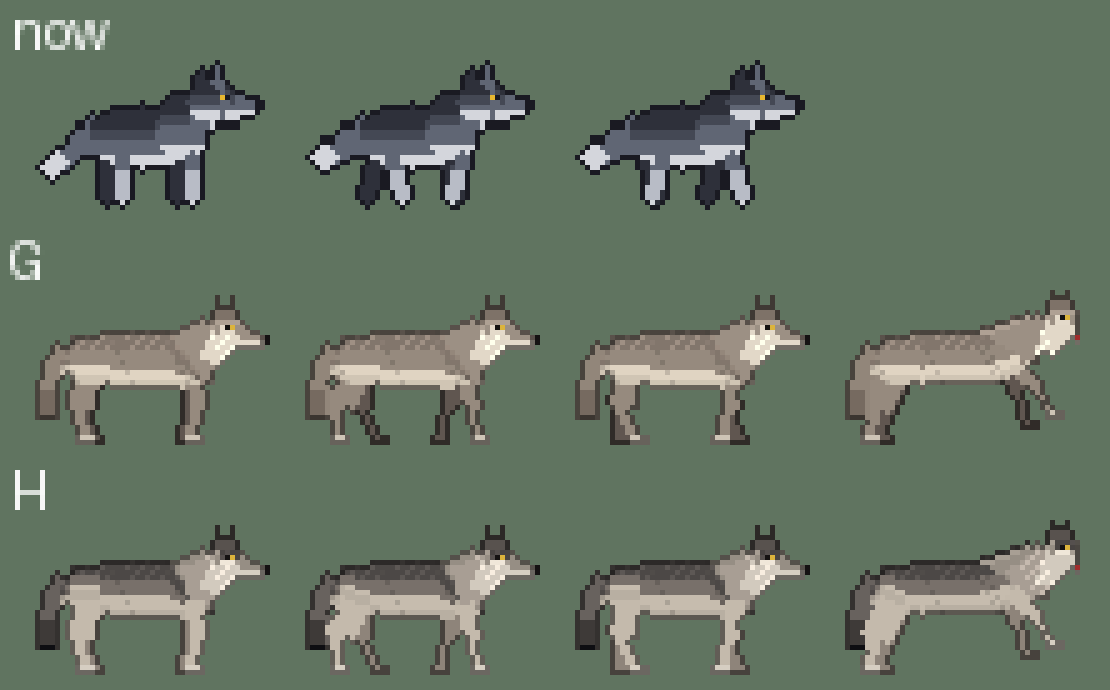
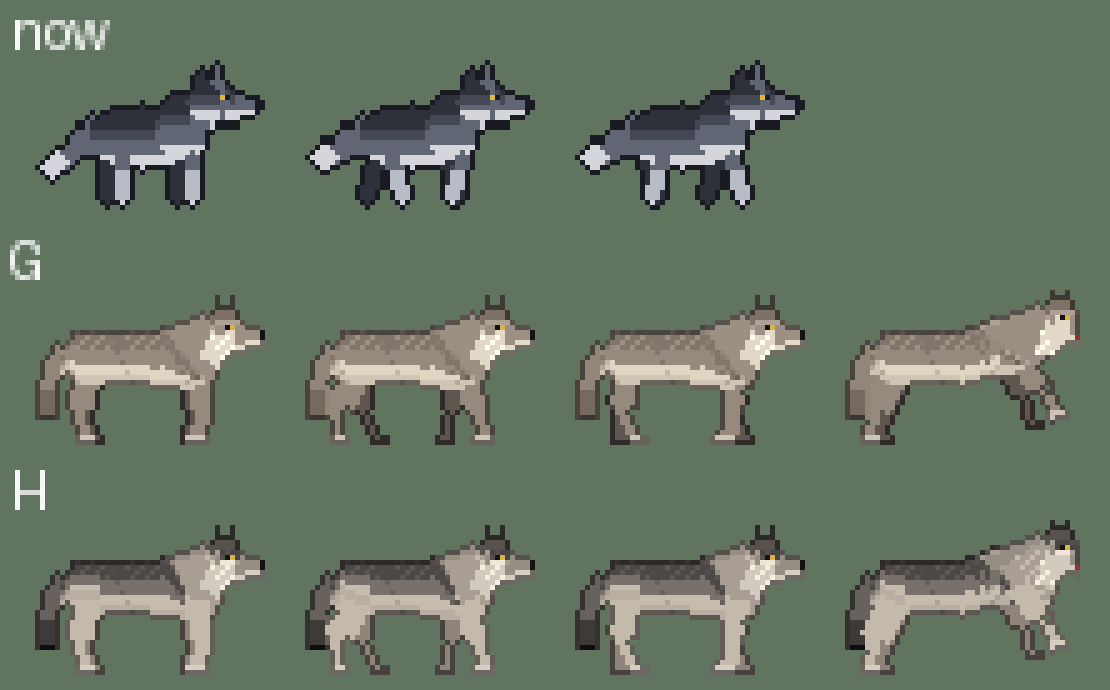
灰狼候選 G、H：口鼻改短改鈍、肩胸厚度約臀部 1.2 倍
Claude-Session: https://claude.ai/code/session_01HkqM82v9towmCBuEomSQC3

diff --git a/arts/art_wolf_v2_2026-10-13/gen_wolf_variants.py b/arts/art_wolf_v2_2026-10-13/gen_wolf_variants.py
@@ -14,13 +14,15 @@ ARCH = 'arts/art_wolf_v2_2026-10-13/'
 BASE = dict(
     # 照使用者最後選的兩張參考圖：頭和肩差不多高、往前看；身體結實不笨重、腿稍長、頸毛厚、尾巴蓬鬆下垂
     frame=(48, 32), ground=30, split=28, file='wolf',
-    body=[(7, 13), (9, 9), (15, 8), (26, 8), (31, 7), (35, 8), (38, 12), (37, 18), (31, 19), (17, 19), (10, 18), (7, 16)],
-    neck=[(29, 8), (35, 5), (39, 12), (36, 18)],
-    head=[(35, 7), (38, 5), (41, 5), (43, 6), (46, 8), (48, 9), (47, 11), (43, 11), (39, 12), (35, 10)],
-    jaw=[(43, 10), (47, 10), (46, 11), (43, 11)],
+    # 前段（肩胸）厚度約後段（臀部）的 1.2 倍：臀部 8→18、肩胸 6→19，腰往後收
+    body=[(7, 12), (9, 8), (15, 8), (24, 8), (30, 6), (35, 7), (38, 11), (38, 17), (33, 19), (25, 19), (17, 18), (10, 18), (7, 16)],
+    neck=[(28, 7), (35, 4), (40, 12), (37, 19)],
+    # 口鼻短而鈍：鼻端是方的
+    head=[(35, 7), (38, 5), (41, 5), (43, 6), (46, 7), (47, 8), (47, 11), (43, 12), (39, 12), (35, 10)],
+    jaw=[(43, 10), (46, 10), (46, 12), (43, 12)],
     ears=[[(37, 6), (38, 1), (40, 5)], [(39, 5), (41, 1), (42, 5)]],
-    eye=(41, 7), nose=(48, 9),
-    legs=[('far', (31, 16), 4, 3, 1), ('far', (13, 16), 5, 3, -1), ('near', (33, 16), 4, 3, 1), ('near', (11, 16), 6, 3, -1)],
+    eye=(41, 7), nose=(47, 8),
+    legs=[('far', (32, 16), 5, 3, 1), ('far', (13, 16), 5, 3, -1), ('near', (34, 16), 5, 4, 1), ('near', (11, 16), 6, 3, -1)],
     paw=2, tail=[(8, 11), (5, 15), (4, 20), (4, 25)], tail_w=5, tail_tip=3)
 
 
@@ -89,7 +91,7 @@ VARIANTS = {
 # H：偏參考圖 2（像素畫）：深色背部帶雜毛、淺色臉與頸毛、米白的腿、尾巴深灰
 CHEEK = [(37, 8), (41, 9), (42, 11), (38, 15), (35, 13)]
 BROW = [(39, 6), (42, 6), (42, 7), (39, 7)]
-RUFF = [(31, 9), (36, 7), (39, 12), (37, 17), (33, 16)]
+RUFF = [(30, 8), (36, 6), (40, 12), (38, 18), (33, 17)]
 VARIANTS = {
     'G': shift(variant({BODY: (150, 138, 126), HEAD: (156, 144, 132), EAR: (126, 114, 104), LEG: (150, 138, 126),
                         FARLEG: (96, 86, 80), PAW: (206, 196, 182), MUZZLE: (228, 218, 202), TAIL: (146, 134, 122),
